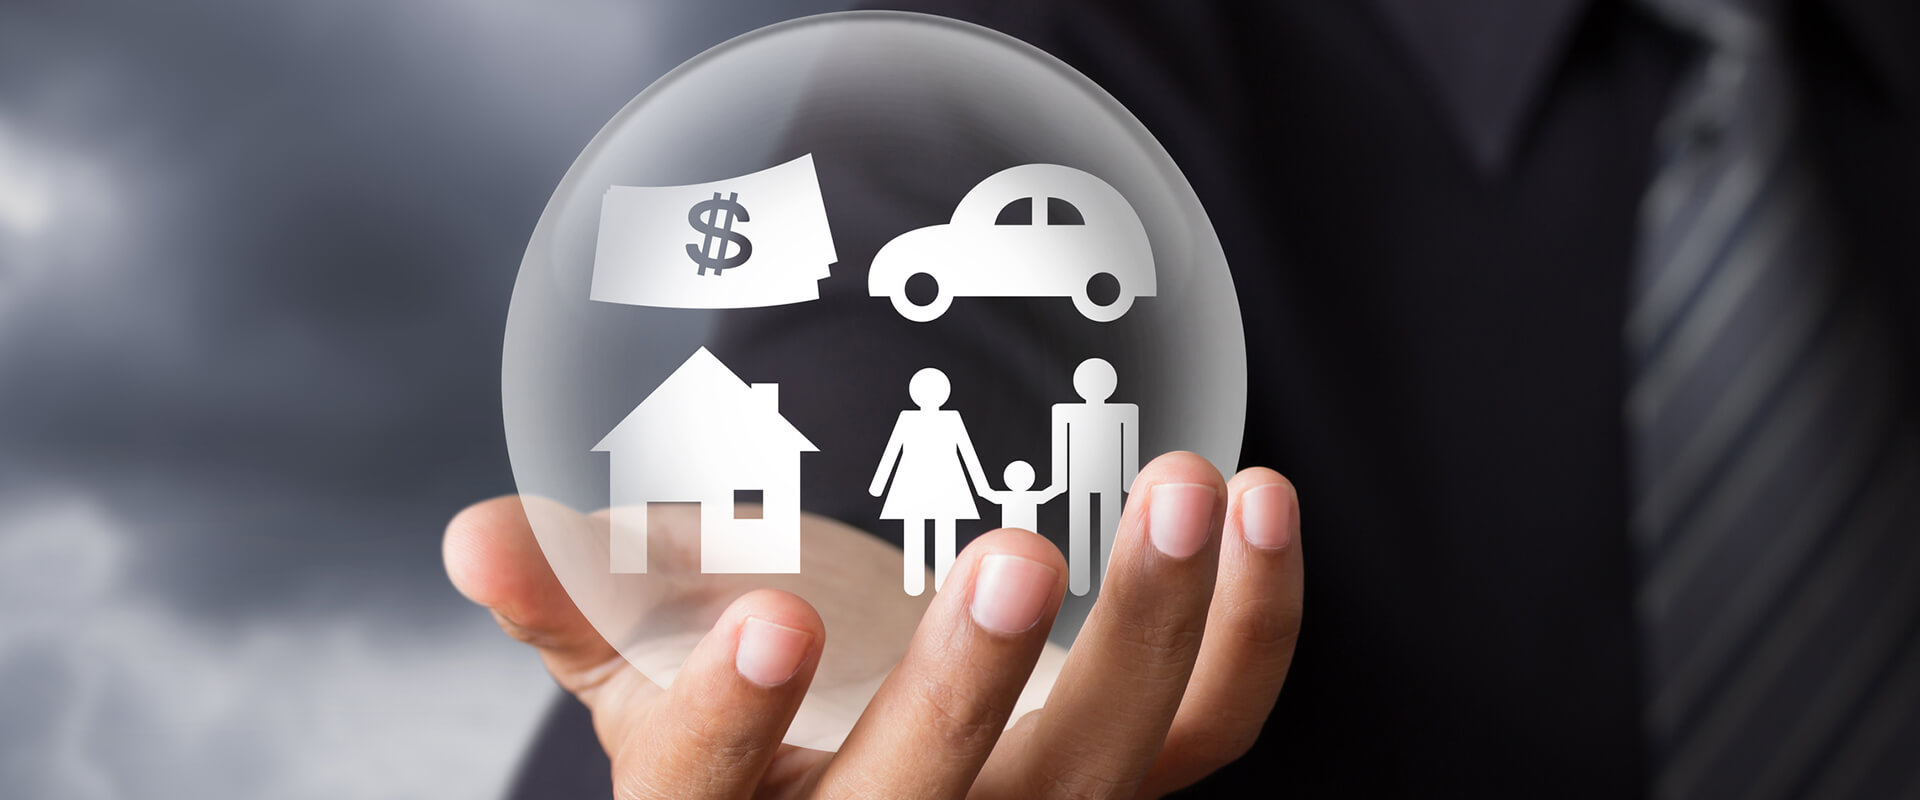
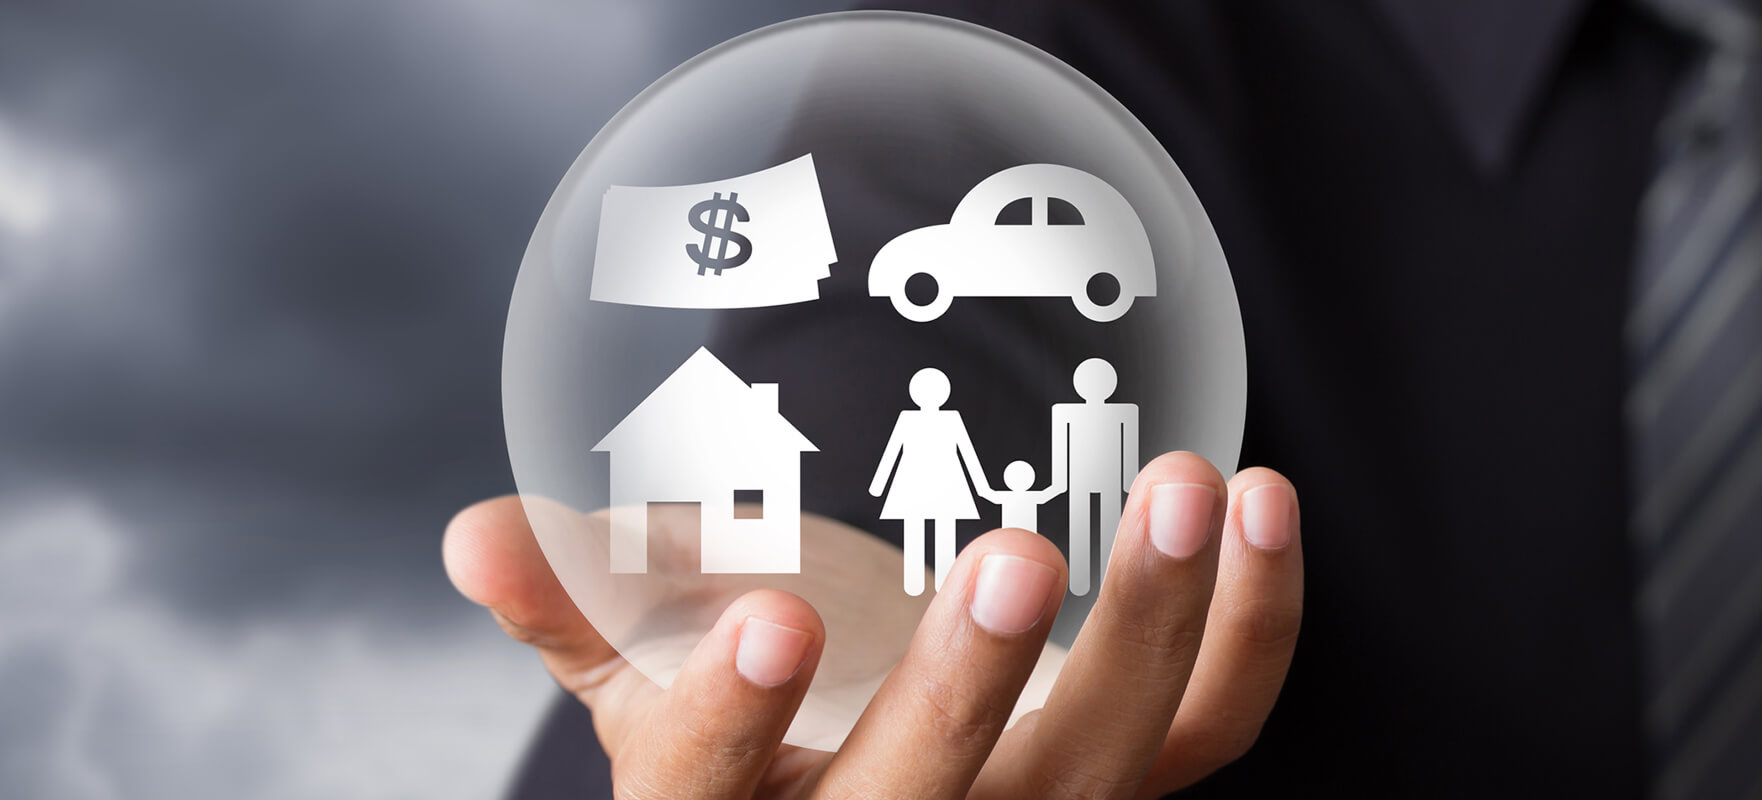
feat: desktop intro carousel

diff --git a/src/global.css b/src/global.css
@@ -4,6 +4,7 @@
   --text-color: #424242;
   --color-active: #00aeef;
   --max-width: 1200px;
+  --border-radius: 2px;
 }
 
 body {
